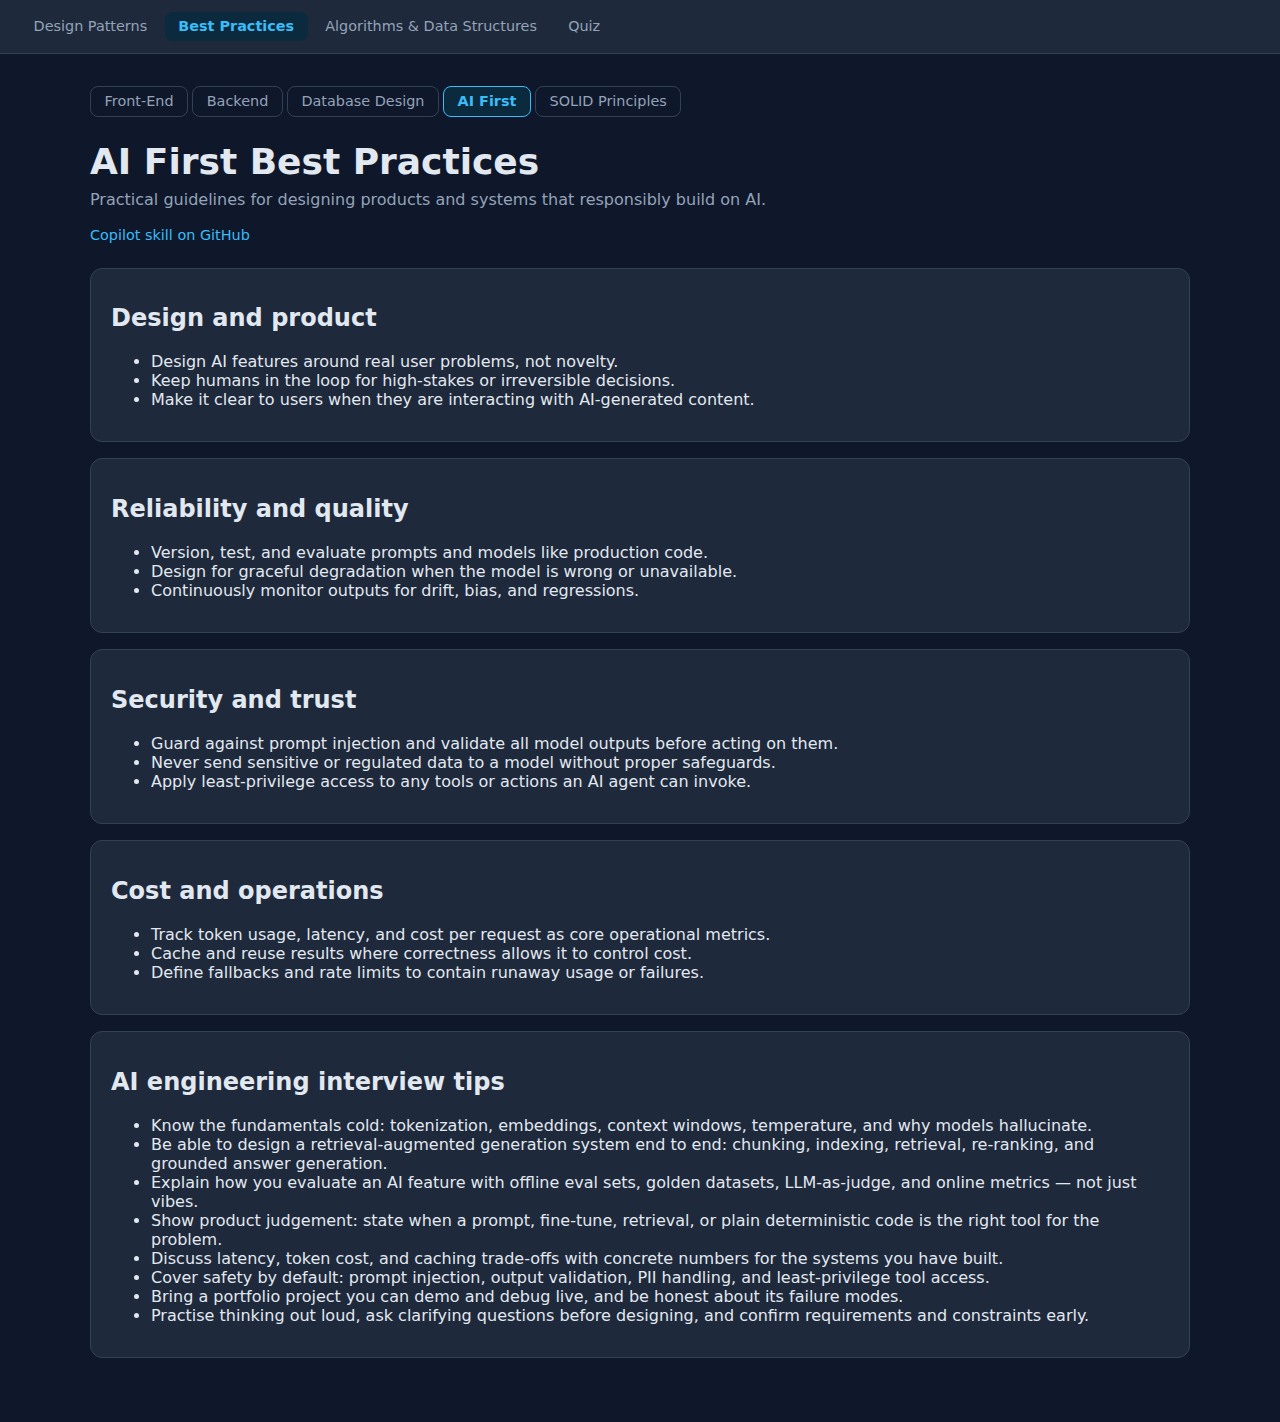
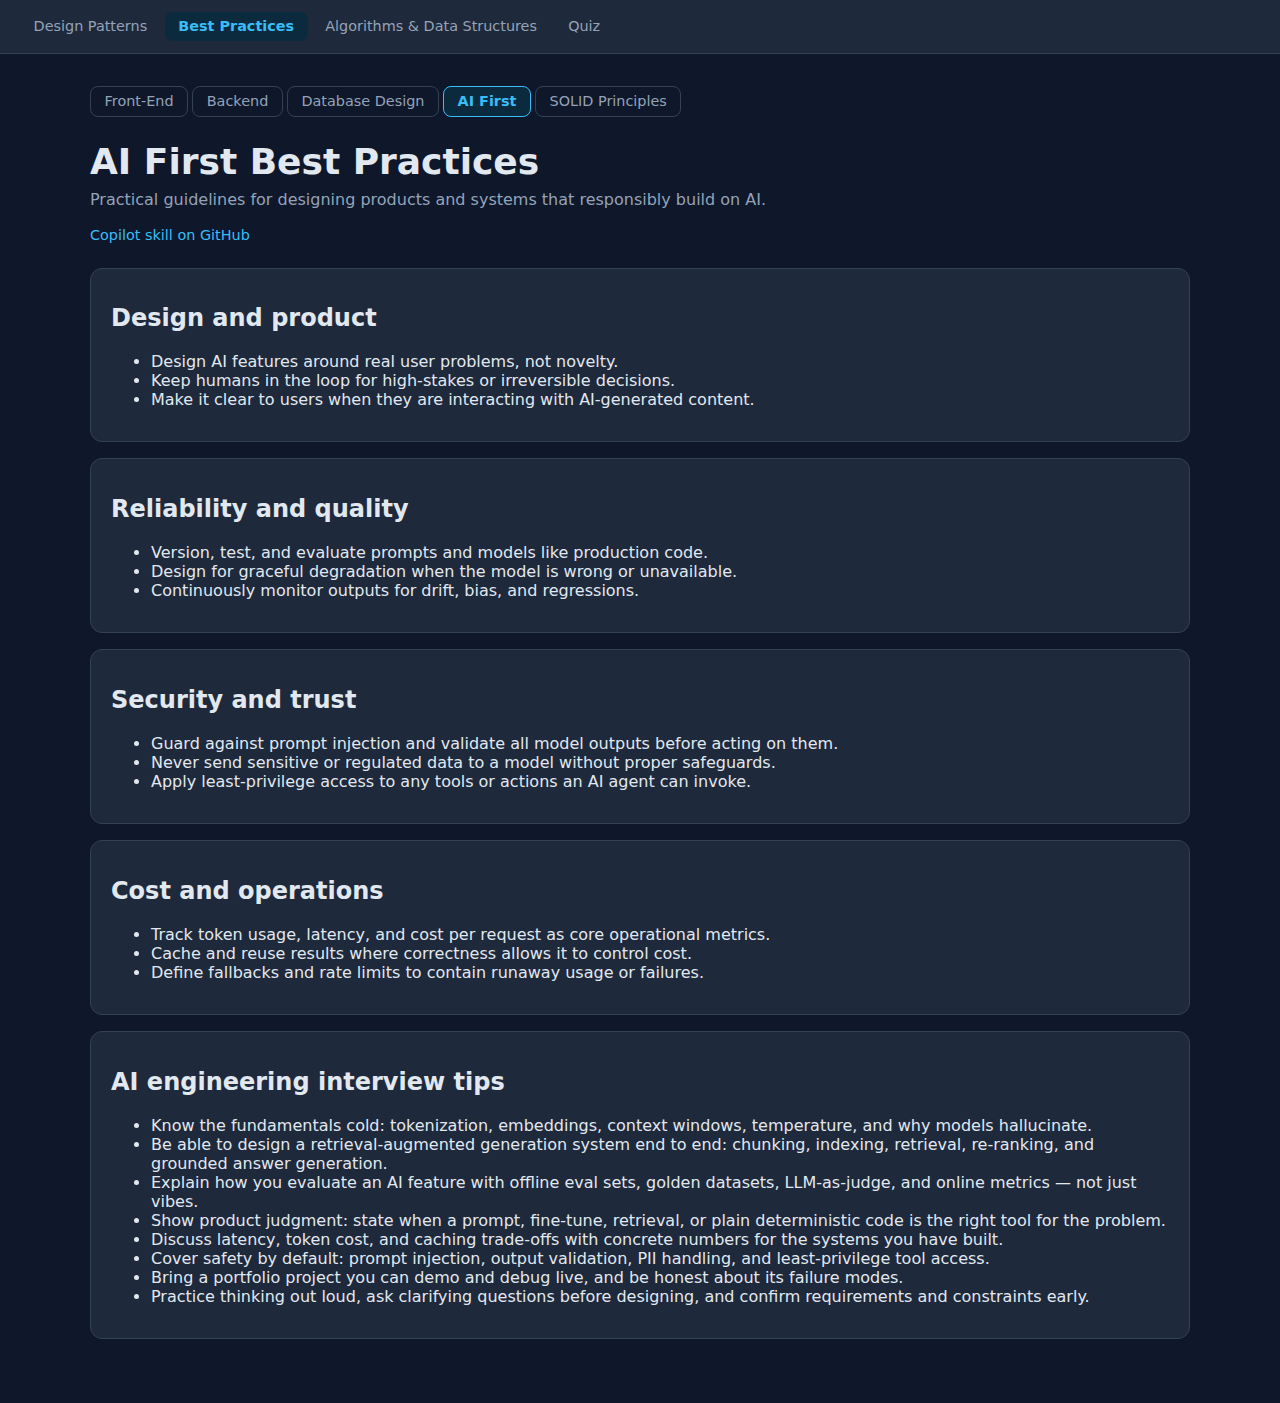
Use American English spellings in interview tips

diff --git a/web/src/pages/AiFirstBestPracticesPage.tsx b/web/src/pages/AiFirstBestPracticesPage.tsx
@@ -57,7 +57,7 @@ export function AiFirstBestPracticesPage() {
             LLM-as-judge, and online metrics — not just vibes.
           </li>
           <li>
-            Show product judgement: state when a prompt, fine-tune, retrieval, or plain
+            Show product judgment: state when a prompt, fine-tune, retrieval, or plain
             deterministic code is the right tool for the problem.
           </li>
           <li>
@@ -73,7 +73,7 @@ export function AiFirstBestPracticesPage() {
             modes.
           </li>
           <li>
-            Practise thinking out loud, ask clarifying questions before designing, and confirm
+            Practice thinking out loud, ask clarifying questions before designing, and confirm
             requirements and constraints early.
           </li>
         </ul>

diff --git a/.github/skills/ai-first-best-practices/SKILL.md b/.github/skills/ai-first-best-practices/SKILL.md
@@ -37,11 +37,11 @@ Mirrors the AI-first section of the site: https://charles2ke.github.io/design-pa
 - Know the fundamentals cold: tokenization, embeddings, context windows, temperature, and why models hallucinate.
 - Be able to design a retrieval-augmented generation system end to end: chunking, indexing, retrieval, re-ranking, and grounded answer generation.
 - Explain how you evaluate an AI feature with offline eval sets, golden datasets, LLM-as-judge, and online metrics — not just vibes.
-- Show product judgement: state when a prompt, fine-tune, retrieval, or plain deterministic code is the right tool for the problem.
+- Show product judgment: state when a prompt, fine-tune, retrieval, or plain deterministic code is the right tool for the problem.
 - Discuss latency, token cost, and caching trade-offs with concrete numbers for the systems you have built.
 - Cover safety by default: prompt injection, output validation, PII handling, and least-privilege tool access.
 - Bring a portfolio project you can demo and debug live, and be honest about its failure modes.
-- Practise thinking out loud, ask clarifying questions before designing, and confirm requirements and constraints early.
+- Practice thinking out loud, ask clarifying questions before designing, and confirm requirements and constraints early.
 
 ## Checklist
 
